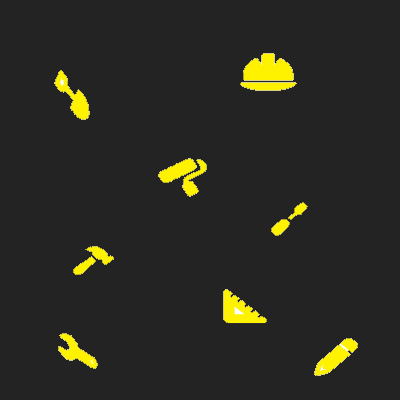
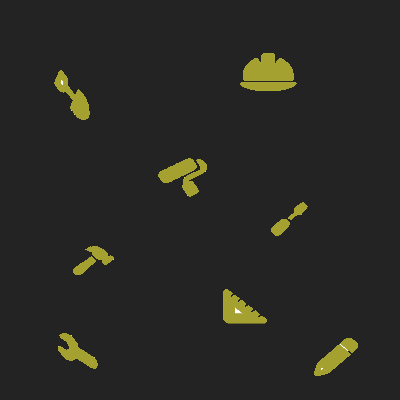
Amélioration accueil, avec animation

diff --git a/css/style.css b/css/style.css
@@ -72,8 +72,8 @@ hr.star-primary:after {
 
 header {
     text-align: center;
-    color: #212121;
-    background: #fdd200;
+    color: rgb(160, 160, 7);
+    background: #232324;
 }
 
 header .container {
@@ -87,6 +87,7 @@ header img {
 }
 
 header .intro-text .name {
+    position: relative;
     padding-top: 20px;
     display: block;
     text-transform: uppercase;
@@ -118,7 +119,7 @@ header .intro-text .skills {
 @media(min-width:1024px) {
     header {
         background: #232324 url("https://res.cloudinary.com/dasdezine/image/upload/v1458051926/hero_tab_xawhqo.jpg") no-repeat;
-        color: rgb(160, 160, 7);
+        color: rgb(223, 241, 21);
         -webkit-background-size: cover;
         -moz-background-size: cover;
         -o-background-size: cover;
@@ -568,11 +569,11 @@ ul li.active a {
     color: #F7CC01 !important;
 }
 
-.anim {
+/* .anim {
     background: url("/images/bgoutils.png"),#232324;
     animation: 60s moveit infinite;
     animation-timing-function: linear;
-}
+} */
 
 @keyframes moveit {
     from {
@@ -581,5 +582,141 @@ ul li.active a {
 
     to {
         background-position: right;
+    }
+}
+
+.container-btns {
+    z-index: 7;
+    position: relative;
+    margin-left: auto;
+    margin-right: auto;
+}
+
+.btn-first {
+    border: 2px solid  rgb(223, 241, 21);
+    outline: none;
+    background: transparent;
+    font-size: 15px;
+    padding: 20px;
+    width: 250px;
+    color:  rgb(223, 241, 21);
+    cursor: pointer;
+    margin: 2px;
+}
+
+.btn-first:hover {
+    transition: all 0.3s ease-in-out;
+    background: rgb(223, 241, 21);
+    color: #333;
+    font-weight: bold;
+}
+
+.circles {
+    position: absolute;
+    top: 0;
+    left: 0;
+    width: 100%;
+    height: 100%;
+    overflow: hidden;
+}
+
+.circles li:nth-child(1) {
+    left: 25%;
+    width: 80px;
+    height: 80px;
+    animation-delay: 0s;
+}
+
+.circles li:nth-child(2) {
+    left: 10%;
+    width: 20px;
+    height: 20px;
+    animation-delay: 2s;
+    animation-duration: 12s;
+}
+
+.circles li:nth-child(3) {
+    left: 70%;
+    width: 20px;
+    height: 20px;
+    animation-delay: 4s;
+}
+
+.circles li:nth-child(4) {
+    left: 40%;
+    width: 60px;
+    height: 60px;
+    animation-delay: 0s;
+    animation-duration: 18s;
+}
+
+.circles li:nth-child(5) {
+    left: 65%;
+    width: 20px;
+    height: 20px;
+    animation-delay: 0s;
+}
+
+.circles li:nth-child(6) {
+    left: 75%;
+    width: 110px;
+    height: 110px;
+    animation-delay: 3s;
+}
+
+.circles li:nth-child(7) {
+    left: 35%;
+    width: 150px;
+    height: 150px;
+    animation-delay: 7s;
+}
+
+.circles li:nth-child(8) {
+    left: 50%;
+    width: 25px;
+    height: 25px;
+    animation-delay: 15s;
+    animation-duration: 45s;
+}
+
+.circles li:nth-child(9) {
+    left: 20%;
+    width: 15px;
+    height: 15px;
+    animation-delay: 2s;
+    animation-duration: 35s;
+}
+
+.circles li:nth-child(10) {
+    left: 85%;
+    width: 150px;
+    height: 150px;
+    animation-delay: 0s;
+    animation-duration: 11s;
+}
+
+.circles li {
+    position: absolute;
+    display: block;
+    list-style: none;
+    width: 20px;
+    height: 20px;
+    background: rgba(222, 219, 8, 0.2);
+    animation: animate 25s linear infinite;
+    bottom: -150px;
+    background-color: #dbd41052;
+}
+
+@keyframes animate {
+    0% {
+        transform: translateY(-275px) rotate(0deg);
+        opacity: 1;
+        border-radius: 0;
+    }
+
+    100% {
+        transform: translateY(-850px) rotate(720deg);
+        opacity: 0;
+        border-radius: 50%;
     }
 }

diff --git a/index.html b/index.html
@@ -23,13 +23,15 @@
     <script src="https://kit.fontawesome.com/e9aaa21c8d.js" crossorigin="anonymous"></script>
     <script src="https://code.jquery.com/jquery-3.6.0.js"
         integrity="sha256-H+K7U5CnXl1h5ywQfKtSj8PCmoN9aaq30gDh27Xc0jk=" crossorigin="anonymous"></script>
+    <script src="https://unpkg.com/scrollreveal"></script>
+    <script src="js/script.js"></script>
     <title>PETIT Travaux & Services</title>
 
 </head>
 
 <body id="page-top" class="index">
     <!-- Navigation -->
-    <nav class="navbar navbar-dark bg-dark fixed-top navbar-expand-md">
+    <!-- <nav class="navbar navbar-dark bg-dark fixed-top navbar-expand-md">
         <div class="container">
             <button type="button" class="navbar-toggler" data-toggle="collapse" data-target="#navbar"
                 aria-controls="navbar">
@@ -93,7 +95,7 @@
 
             </div>
         </div>
-    </nav>
+    </nav> -->
 
     <!-- Header -->
     <header>
@@ -108,8 +110,24 @@
                         <hr class="star-light">
                     </div>
                 </div>
+                <div class="container-btns">
+                    <button class="btn-first b1">Découvrir</button>
+                    <button class="btn-first b2">Contacter</button>
+                </div>
             </div>
         </div>
+        <ul class="circles d-none d-lg-block">
+            <li></li>
+            <li></li>
+            <li></li>
+            <li></li>
+            <li></li>
+            <li></li>
+            <li></li>
+            <li></li>
+            <li></li>
+            <li></li>
+        </ul>
     </header>
 
     <!-- Section Compétences -->
@@ -302,6 +320,8 @@
             $(this).addClass('active').siblings().removeClass('active');
         })
     </script>
+
+
 </body>
 
 </html>
